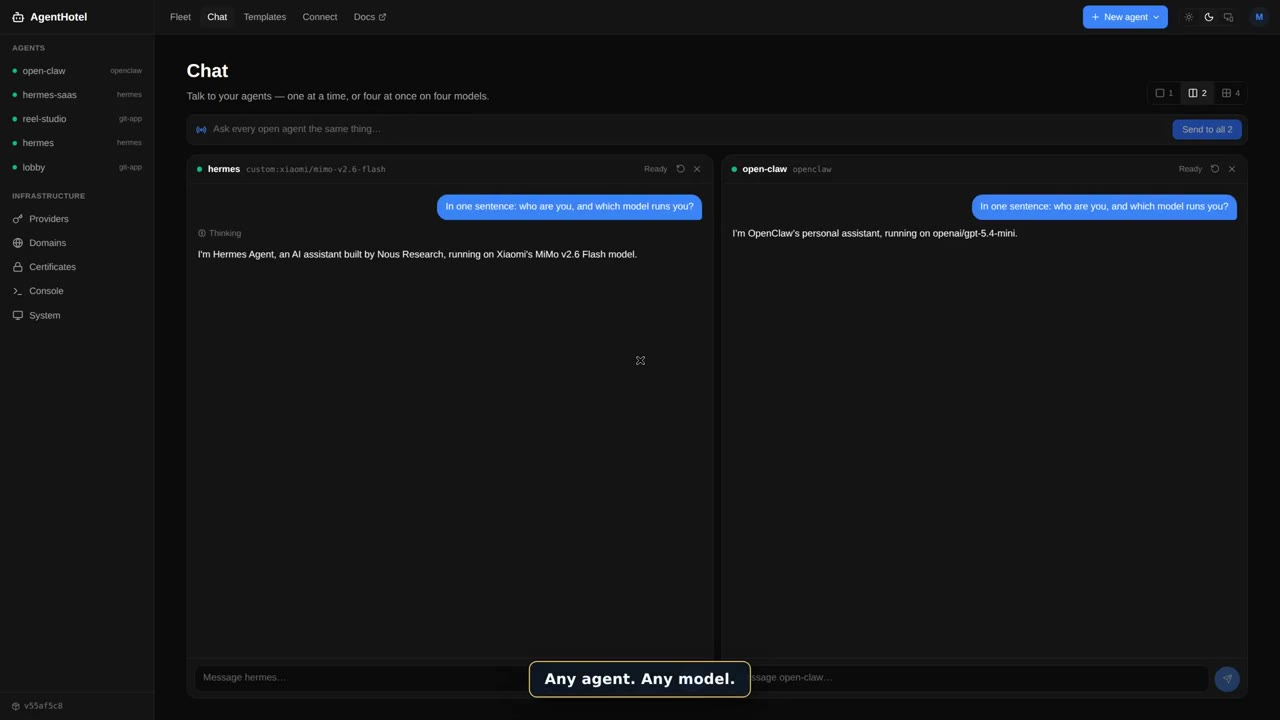
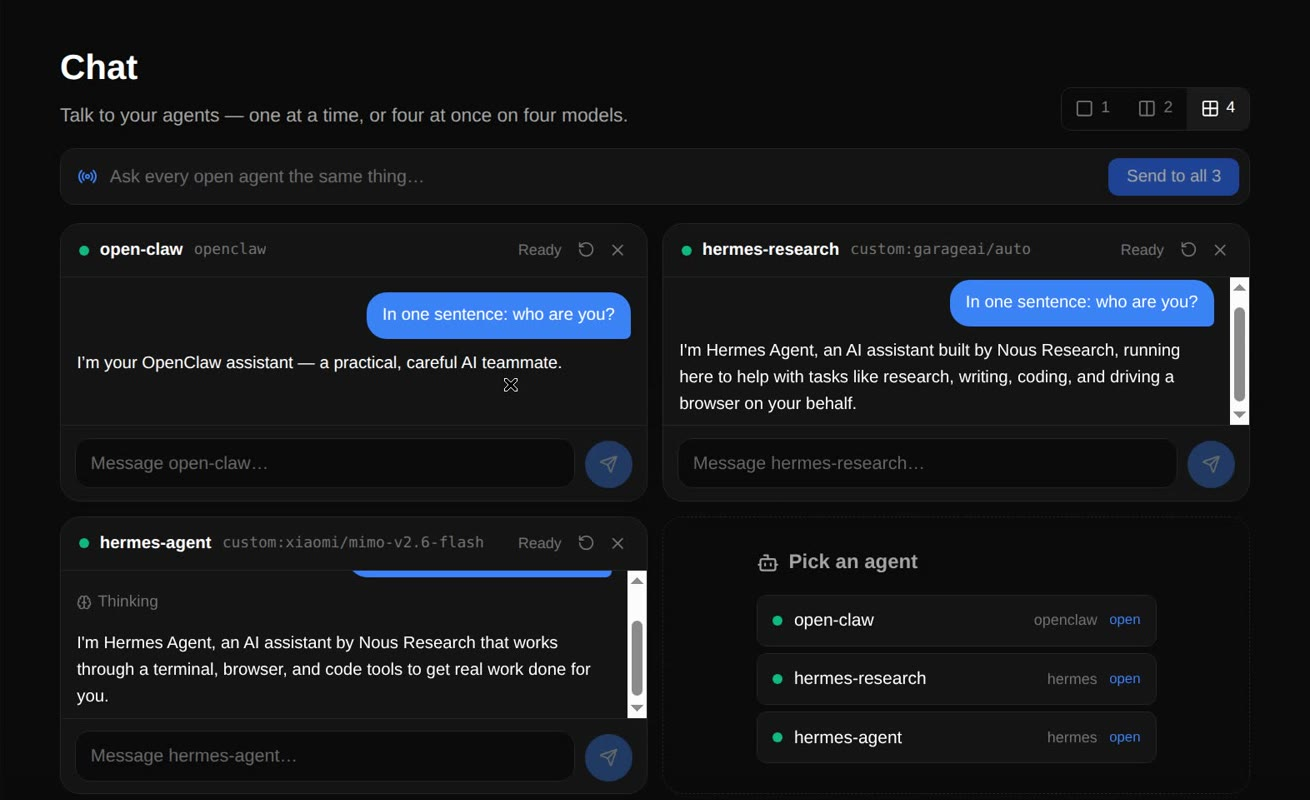
docs: the README shows the launch film, Hermes checks in
The demo linked and pictured the first film, which ends on "reel-studio".
Now: a still of three agents on three models answering in Chat (cropped to
the chat, without the panel's disk badge), linked to Hermes checks in,
the film the launch post carries.

diff --git a/README.md b/README.md
@@ -6,9 +6,9 @@ AgentHotel turns one VPS into a hotel for AI agents. Each guest gets its own roo
 
 **Any agent, on any model.** Hermes Agent, OpenClaw or any other open-source harness, each always on at its own address. Point them at a frontier model, at your own model on your own hardware, or at European models shared by the [GarageAI](https://garageai.eu) community — and ask several of them the same question at once in **Chat**.
 
-[![Two agents on two different models answering the same question in AgentHotel's Chat](docs/media/demo-chat.jpg)](https://media.liteit.se/agenthotel.mp4)
+[![Three agents on three different models answering the same question in AgentHotel's Chat](docs/media/demo-chat.jpg)](https://take.clawable.org/watch/f8648f0d3bbb407689186de853d49f19)
 
-<sub>▶ [Watch the 45-second demo](https://media.liteit.se/agenthotel.mp4) — directed end to end by an agent on this hotel, with [Take](https://github.com/magnusfroste/agenttake) (AgentTake), an agent tool that lives here too.</sub>
+<sub>▶ [Watch *Hermes checks in* (46 s)](https://take.clawable.org/watch/f8648f0d3bbb407689186de853d49f19) — a Hermes agent on this hotel tells its own story, and directed, filmed and cut it itself with [Take](https://github.com/magnusfroste/agenttake) (AgentTake), an agent tool that lives here too.</sub>
 
 **Try it** on a fresh Ubuntu/Debian VPS, as root ([details](#quick-start)):
 
